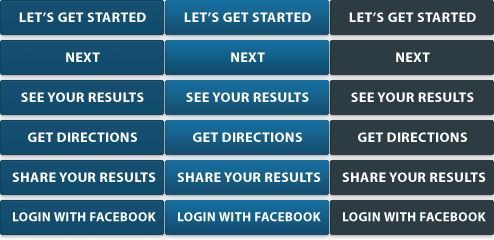
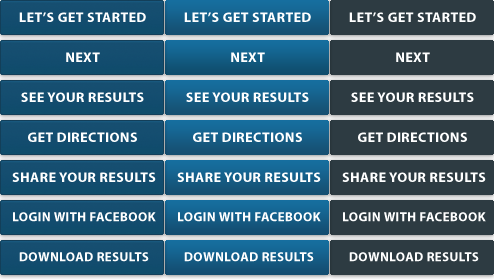
Updates to results view.
Updates to results view.

diff --git a/httpdocs/css/layout.less b/httpdocs/css/layout.less
@@ -212,9 +212,69 @@ html {
 			>p {
 				width: 670px;
 				margin: 25px auto;
-				font-size: @fontSize + 3;
-				color: #666;
+				font-size: @fontSize + 2;
+				line-height: @fontSize + 6;
+				font-weight: bold;
+				color: #1d5274;
 				text-align: center;
+			}
+		}
+
+		div#my-showroom {
+			text-align: center;
+
+			&:after,
+			div:after {
+				clear: both;
+				content: " ";
+				display: table;
+			}
+
+			>h4 {
+				margin: 10px 0 5px;
+				color: #666;
+				font-weight: normal;
+				font-size: @fontSize;
+			}
+			>h5 {
+				font-size: @fontSize;
+				font-weight: bold;
+				margin: 1px 0 15px;
+				color: @blue;
+				display: none;
+			}
+			>p {
+				margin: 12px auto 25px;
+				width: 532px;
+
+				&:after {
+					clear: both;
+					content: " ";
+					display: table;
+				}
+
+				>a { float: left; }
+			}
+
+			a#get-directions {
+				background-position: 0 -120px;
+				margin-right: 20px;
+
+				&:hover { background-position: -165px -120px; }
+				&:active { background-position: -330px -120px; }
+			}
+			a#download-results {
+				background-position: 0 -240px;
+
+				&:hover { background-position: -165px -240px; }
+				&:active { background-position: -330px -240px; }					
+			}
+			a#share-your-results { 
+				background-position: 0 -160px;
+				margin-right: 20px;
+
+				&:hover { background-position: -165px -160px; }
+				&:active { background-position: -330px -160px; }
 			}
 		}
 
@@ -235,7 +295,7 @@ html {
 
 				>img {
 					float: left;
-					margin: 0 15px 50px 0;
+					margin: 0 15px 40px 0;
 					border: 1px solid #d2d2d2;
 					width: 178px;
 				}
@@ -258,59 +318,6 @@ html {
 					line-height: 17px;
 				}
 			}
-
-			>div#my-showroom {
-				width: @productWidth - 35;
-				padding: 20px 20px 25px;
-				margin-left: 25px;
-				text-align: center;
-
-				&:after,
-				div:after {
-					clear: both;
-					content: " ";
-					display: table;
-				}
-
-				>h4 {
-					margin: 10px 0 5px;
-					color: #666;
-					font-weight: normal;
-					font-size: @fontSize;
-				}
-				>h5 {
-					font-size: @fontSize;
-					font-weight: bold;
-					margin: 1px 0 15px;
-					color: @blue;
-					display: none;
-				}
-				>a#get-directions {
-					background-position: 0 -120px;
-					margin: 8px auto 15px;
-
-					&:hover { background-position: -165px -120px; }
-					&:active { background-position: -330px -120px; }
-				}
-				>a#download-results {
-					display: block;
-					float: left;
-					outline: none;
-					cursor: pointer;
-					font-weight: bold;
-					color: @blue;
-					text-decoration: none;
-					font-size: @fontSize;
-					height: 20px;
-					line-height: 20px;
-					padding-right: 24px;
-					margin-left: 87px;
-					background: url(../img/pdf-icon.png) no-repeat top right;
-
-					&:hover { color: #369; }
-					&:active { color: #222; }
-				}
-			}	
 		}
 
 		#retake-quiz {
@@ -345,12 +352,6 @@ html {
 				>span { display: none; }
 			}
 		}
-			a#share-your-results { 
-				background-position: 0 -160px;
-
-				&:hover { background-position: -165px -160px; }
-				&:active { background-position: -330px -160px; }
-			}
 
 		.sessionExpired {
 			overflow: hidden;

diff --git a/httpdocs/js/templates/results.html b/httpdocs/js/templates/results.html
@@ -1,7 +1,15 @@
 <h2><span><%= firstName %>, You're</span> <%= style %></h2>
 <div id="portrait"><img src="https://graph.facebook.com/<%= userName %>/picture?<%= photoSize %>" alt="<%= firstName %> <%= lastName %>"></div>
 <p id="style-message"></p>
-<a class="buttons" id="share-your-results"><span>Share Your Results</span></a>
+<div id="my-showroom">
+	<h4>See your masterpiece at your local Ferguson showroom:</h4>
+	<h5></h5>
+	<p>
+		<a class="buttons" id="get-directions" href="<%= locationsUrl %>" target="_blank"><span>Get Directions</span></a>
+		<a class="buttons" id="share-your-results"><span>Share Your Results</span></a>
+		<a class="buttons" id="download-results" href="<%= domain %>api/results/pdf" target="_blank"><span>Download Results</span></a>
+	</p>
+</div>
 <div id="products">
 <% _.each(products, function(product) { %>
 	<div>
@@ -11,12 +19,6 @@
 		<p><%= product.description %></p>
 	</div>
 <% }); %>
-	<div id="my-showroom">
-		<h4>See your masterpiece at your Ferguson Showroom:</h4>
-		<h5></h5>
-		<a class="buttons" id="get-directions" href="<%= locationsUrl %>" target="_blank"><span>Get Directions</span></a>
-		<a id="download-results" href="<%= domain %>api/results/pdf" target="_blank">Download your results:</a>
-	</div>
 </div>
 <div id="retake-quiz">
 	<h4>Did we get it right?</h4>

diff --git a/httpdocs/js/views/results.js b/httpdocs/js/views/results.js
@@ -117,14 +117,12 @@ define([
 			shareYourResultsClickCallback: function() {
 				FB.ui({
 					method: 'feed',
-					name: ("I'm "+ this.user.getStyle()).toUpperCase(),
-					link: 'http://swaydevsite.com/facebook.ferguson.com/',
-					picture: 'http://swaydevsite.com/facebook.ferguson.com/img/logo.png',
+					name: ("My Style is "+ this.user.getStyle() +". What's Yours?").toUpperCase(),
+					link: 'https://apps.facebook.com/ferguson_recommends',
+					picture: 'https://swaydevsite.com/facebook.ferguson.com/img/share-logo.png',
 					caption: 'Ferguson Asks, "What\'s Your Style?"',
 					description: 'Uncover your own style, and learn how Ferguson can help you bring your vision of your perfect bathroom to life.'
-				}, function(response) {
-					// console.log(response);
-				});
+				}, function(response) {});
 			}
 		});
 		

diff --git a/httpdocs/js/router.js b/httpdocs/js/router.js
@@ -22,7 +22,7 @@ define([
 
 			showSeeYourResults: function(domain) {
 				// Make sure the user has logged in.
-				if(!User.isLoggedIn()) {
+				if(!User.isLoggedIn() || !User.hasMadeASelection()) {
 					appRouter.navigate(fbkUrlroot, {trigger:true, replace:true});
 					return;
 				}
@@ -39,7 +39,7 @@ define([
 
 			showStep: function(domain, number) {
 				// Make sure the user has logged in.
-				if(!User.isLoggedIn()) {
+				if(!User.isLoggedIn() || (!User.hasMadeASelection()) && parseInt(number) > 1) {
 					appRouter.navigate(fbkUrlroot, {trigger:true, replace:true});
 					return;
 				}

diff --git a/httpdocs/js/models/user.js b/httpdocs/js/models/user.js
@@ -55,6 +55,14 @@ define([
 				});
 			},
 
+			/**
+			 * Has the user made a selection yet?
+			 * @return boolean
+			 */
+			hasMadeASelection: function() {
+				return (parseInt(this.get("modern")) > 0 || parseInt(this.get("transitional")) > 0 || parseInt(this.get("traditional")) > 0);
+			},
+
 			isLoggedIn: function() {
 				return this.get("loggedIn");
 			},
